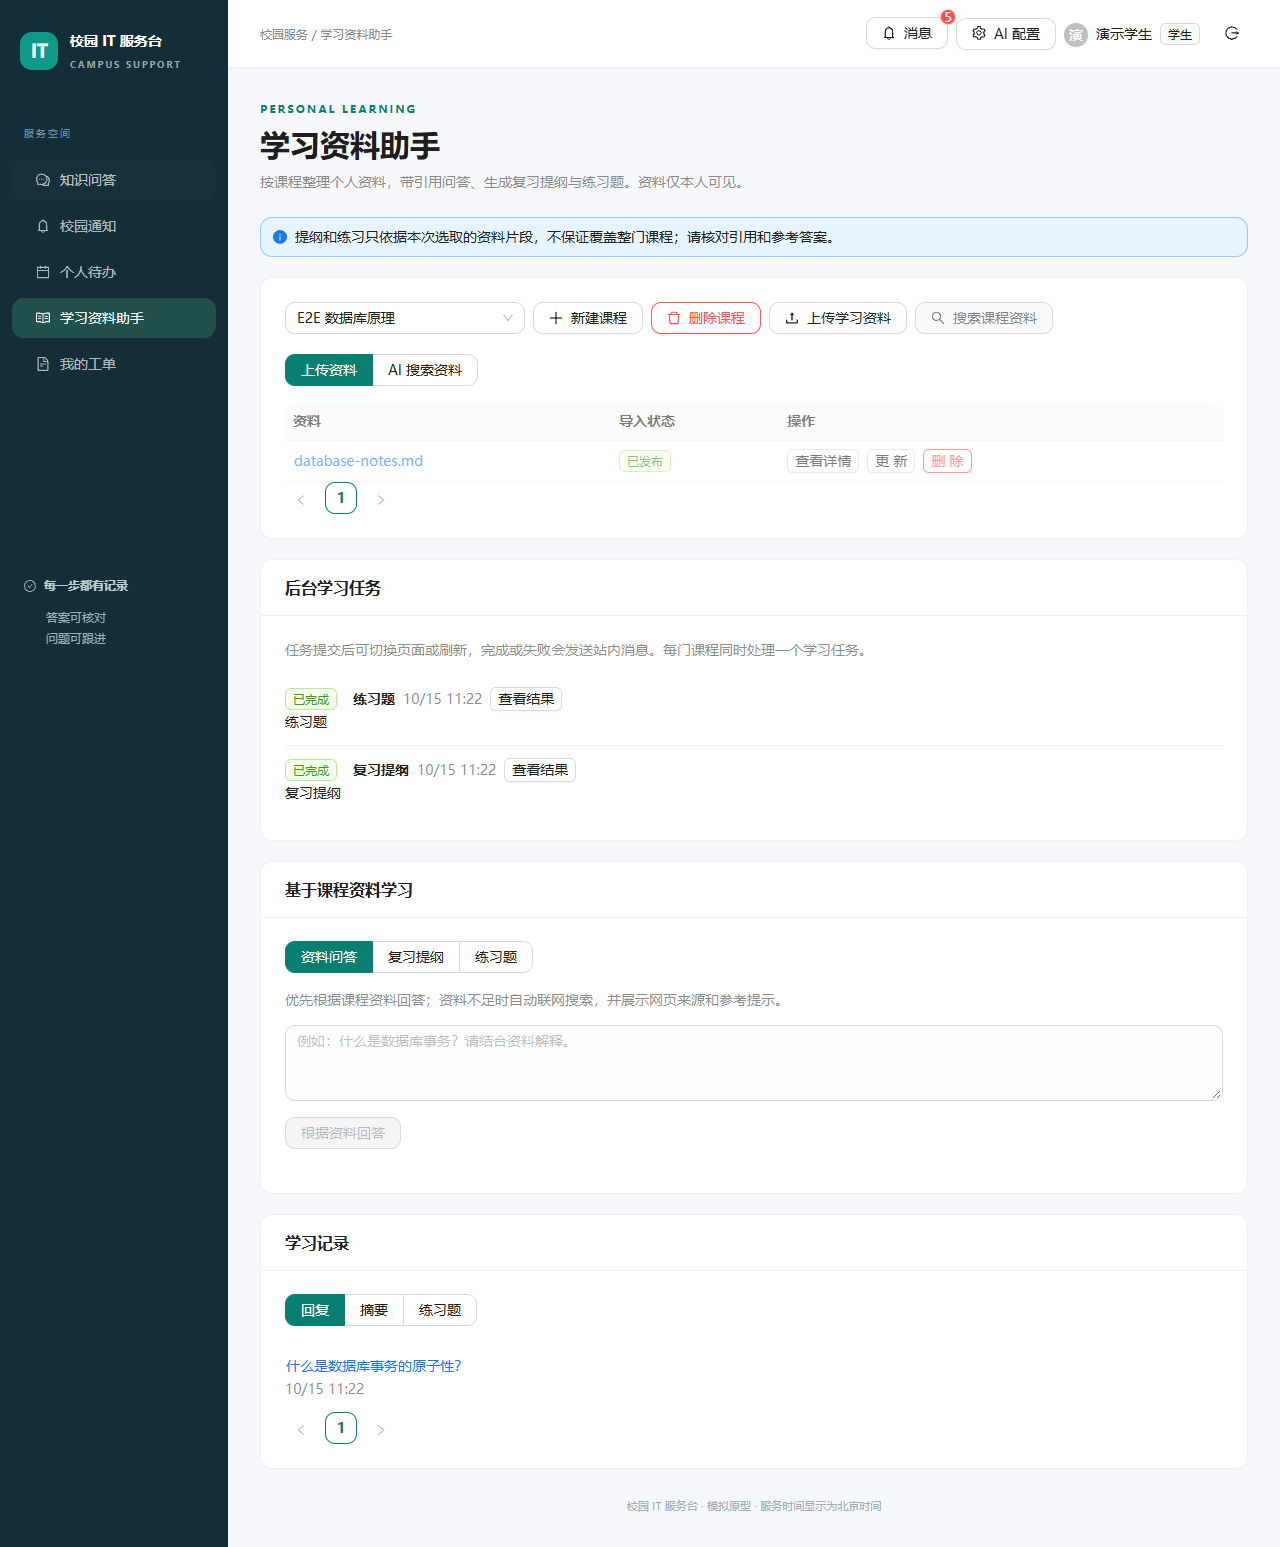
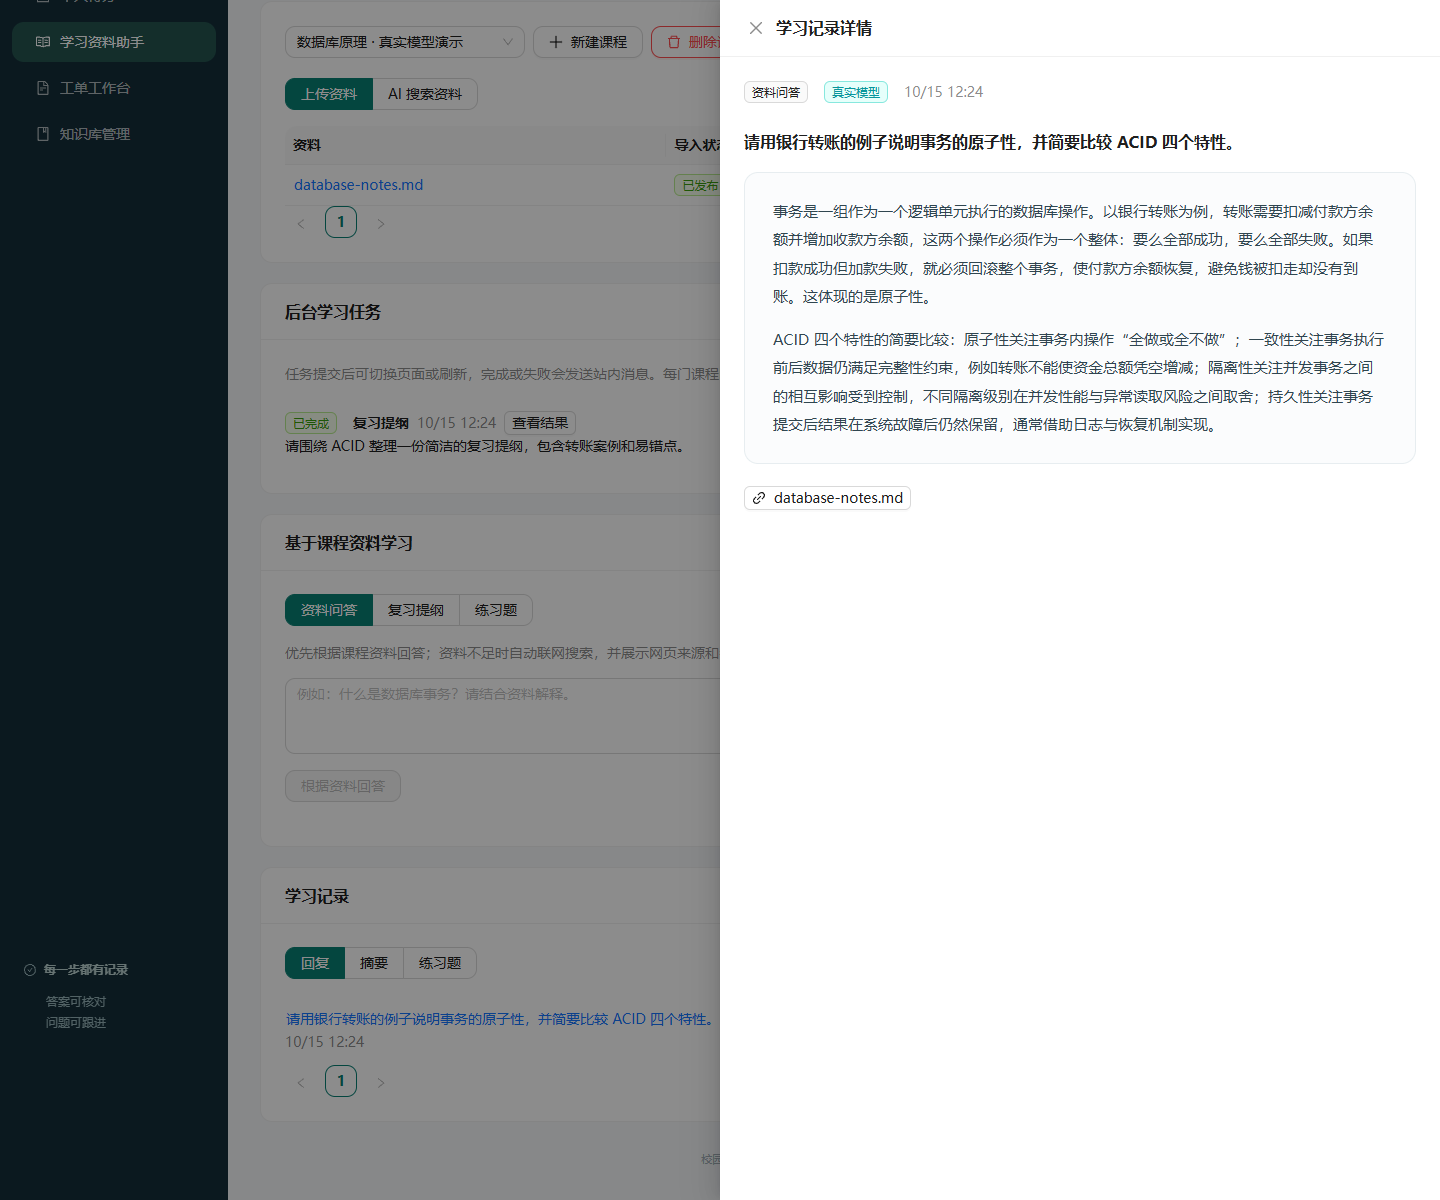
docs: show verified real-model answers and deployment results

diff --git a/docs/verification-2026-10-15.md b/docs/verification-2026-10-15.md
@@ -1,5 +1,7 @@
 # 当前机器验收与改进记录（2026-10-15）
 
+**最新状态：本机网站已切换为真实模型，知识库问答、个人资料问答及后台复习提纲生成通过。** 下文保留此前缺少密钥、认证失败和供应商超时的排查过程；这些是历史阶段，最新结果见本文末尾“真实模式切换与演示截图”。固定 50 题评测及人工质量核对仍待完成。
+
 环境：Windows 11、WSL 3.0.1、Docker Desktop 当前用户安装、Docker CLI 29.8.2、Compose 5.6.0；项目 `C:\ai\it-work`，基线提交 `fd7712d`。
 
 ## 1. 业务验收
@@ -77,3 +79,13 @@
 - 本地配置增加 `LLM_MAX_COMPLETION_TOKENS=4096` 和 `PROVIDER_TIMEOUT=90`，限制常规生成输出并给予合理响应时间；显式业务生成预算仍由对应代码控制。
 - [DeepSeek 官方事故记录](https://status.deepseek.com/incidents/7116348214287)确认 2026-10-15 北京时间 08:11 起网页/API 部分中断，涉及 Flash 和 Pro API；检查时仍为“已定位原因，正在实施修复”。这与认证通过但生成无内容/超时的实测现象一致，不能将本次阻塞归因于新密钥无效。
 - 在真实回答与引用探针成功之前继续保持 Mock，不发布新索引，不以 50 次失败调用冒充效果评测。待供应商恢复后继续真实切换与固定 50 题评测。
+
+## 真实模式切换与演示截图（北京时间 2026-10-15）
+
+- 用户授权切换后执行 `scripts/enable-real.ps1`。独立探针实际调用 DeepSeek `deepseek-flash` 和本地 `BAAI/bge-m3`：2 个嵌入输入返回 1024 维向量，聊天回答包含 `IT-1024` 且引用正确；本次探针耗时 6005 ms、聊天共 193 Token。
+- 本地 `.env` 已设为 `MODEL_MODE=real`、`COMPOSE_PROFILES=bge`，API、Worker、Scheduler 已重新加载配置，6 份原有资料的新索引发布成功。旧文件及版本保留，密钥和本地环境文件不上传仓库。
+- API readiness 返回 `{"status":"ok","model_mode":"real"}`；Worker 独立读取配置同样为 `real` 和 `deepseek-flash`，BGE-M3 容器健康。
+- 在独立演示账号中，通过实际网页提交 VPN 问题、上传自编数据库笔记并进行 ACID 问答、提交后台复习提纲。三项结果均记录 `model_mode=real`，分别带 2、1、1 条引用；逐条读取来源接口均返回 HTTP 200。
+- 页面中的服务器聊天、嵌入连接检测均通过。该演示账号持久化用量为 DeepSeek 输入 3786、输出 800 Token；这是本账号此次演示的统计，不包含其他探针及账号。未设置模型价格，费用保持“未估算”；嵌入服务未报告 Token 用量。
+- README 演示图已更新为实际真实调用的知识问答、资料问答、复习提纲与模型/用量页面。截图仅包含自编资料和演示账号；已检查不含密钥。原始响应与运行报告保存在忽略的 `work/real-demo-20261015/`。
+- 本次验证覆盖上述真实调用与引用访问，不等同于固定 50 题评测，也不代表已验证联网搜索、所有业务或全面回答准确率。仓库的新环境默认配置仍为 Mock，其他部署需使用自己的密钥执行启用脚本。

diff --git a/README.md b/README.md
@@ -21,23 +21,29 @@
 
 ## 界面演示
 
-以下为本项目在本地验收时的实际界面，内容使用演示账号和测试资料。截图用于展示操作界面，不代表真实模型效果或正式校园业务数据。
+以下截图采集于 **2026-10-15 的真实模型环境**：聊天使用 DeepSeek `deepseek-flash`，资料索引使用本地 `BAAI/bge-m3`。使用独立演示账号和自编资料，页面回答为实际模型调用结果；示例不代表正式校园政策或全面准确率评测。新环境仍默认 Mock，需按下文配置密钥并通过探针后启用真实模型。
+
+### 真实知识库问答
+
+针对 VPN 错误 809，真实模型结合检索到的资料生成处理步骤，并展示可打开核对的文档引用。
+
+![真实模型知识库问答：VPN 处理建议与文档引用](docs/images/knowledge-answer.png)
 
 ### 学习资料助手
 
-按课程上传资料，查看导入进度、后台任务与学习记录，并进行资料问答、生成提纲或练习。
+上传自编数据库笔记后，真实模型依据课程资料解释事务原子性与 ACID，并给出资料引用。
 
-![学习资料助手：课程资料、后台任务与学习记录](docs/images/study-assistant.png)
+![真实模型学习资料问答：事务原子性、ACID 与来源](docs/images/study-assistant.png)
 
-### 个人待办
+### 真实复习提纲
 
-将通知转为个人安排，查看完成状态、来源与提醒情况，也可单独创建待办。
+提交学习任务后，由后台 Worker 调用真实模型，基于同一份课程资料整理 ACID 的复习提纲、转账案例与易错点。
 
-![个人待办：通知来源、完成状态与提醒](docs/images/campus-todos.png)
+![真实模型生成的数据库复习提纲](docs/images/study-outline.png)
 
 ### AI 配置与用量
 
-查看各功能使用的模型及运行模式，管理员可检测服务器模型；用户可查看自己的当日额度与用量。
+查看 DeepSeek 聊天与 BGE-M3 嵌入的功能分工，以及本次演示产生的真实 Token 用量。聊天和嵌入连接检测均通过；界面仍以“已配置，需检测连接”描述配置状态，不将配置存在视为长期可用保证。
 
 ![AI 配置：模型来源、运行状态与个人用量](docs/images/model-status.png)
 
